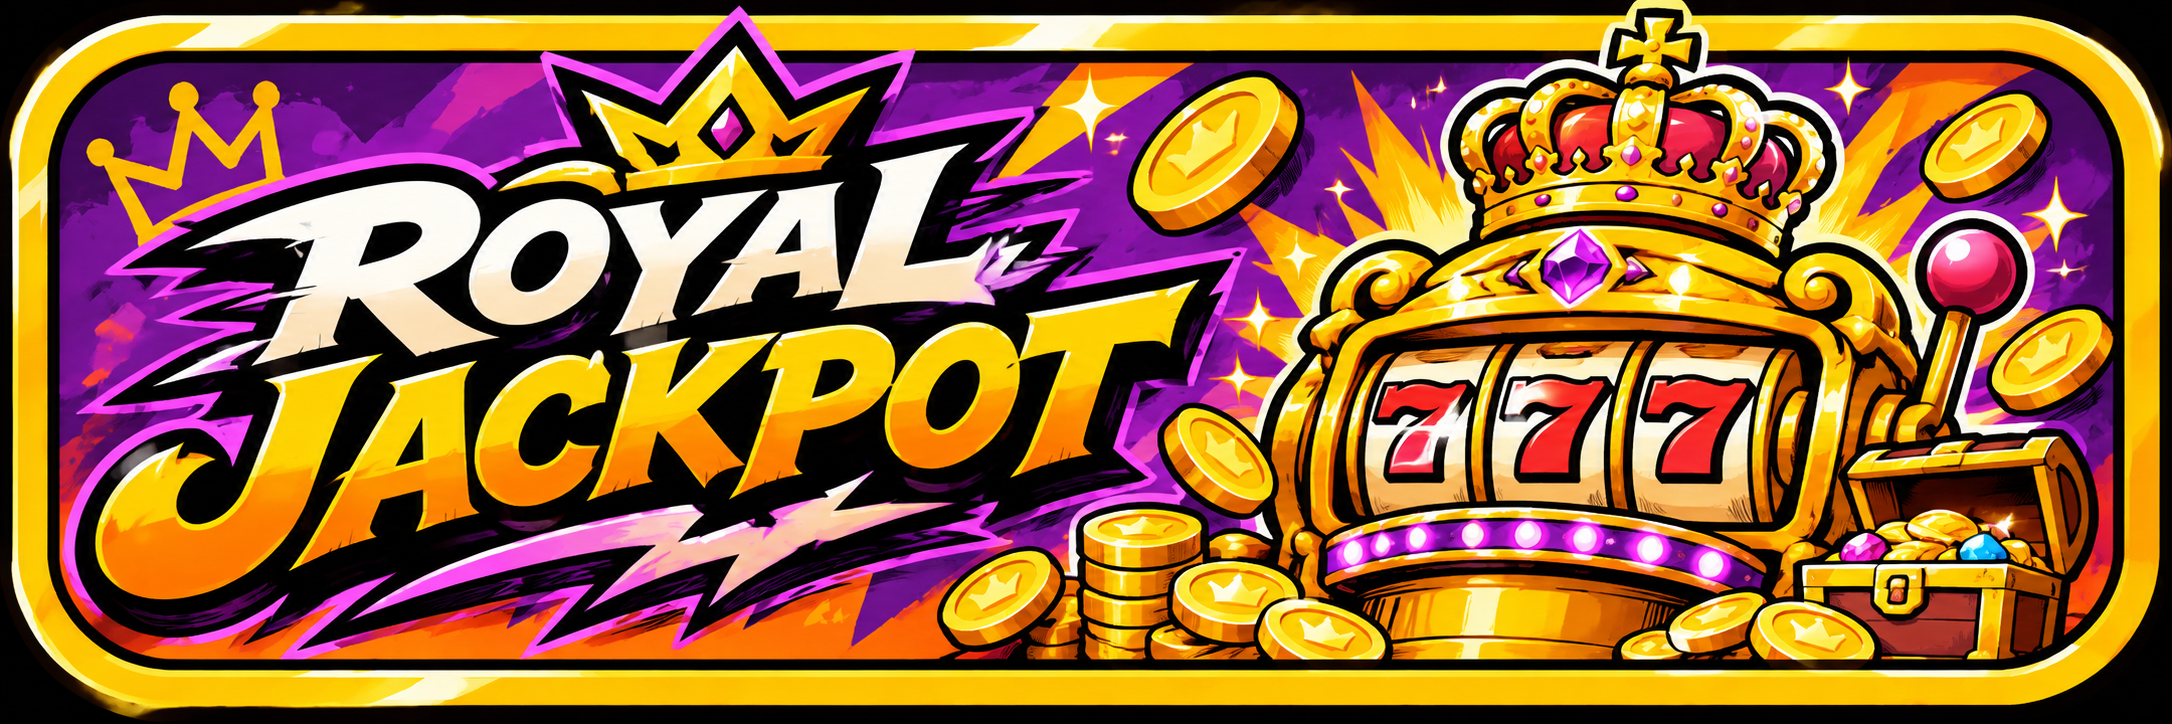
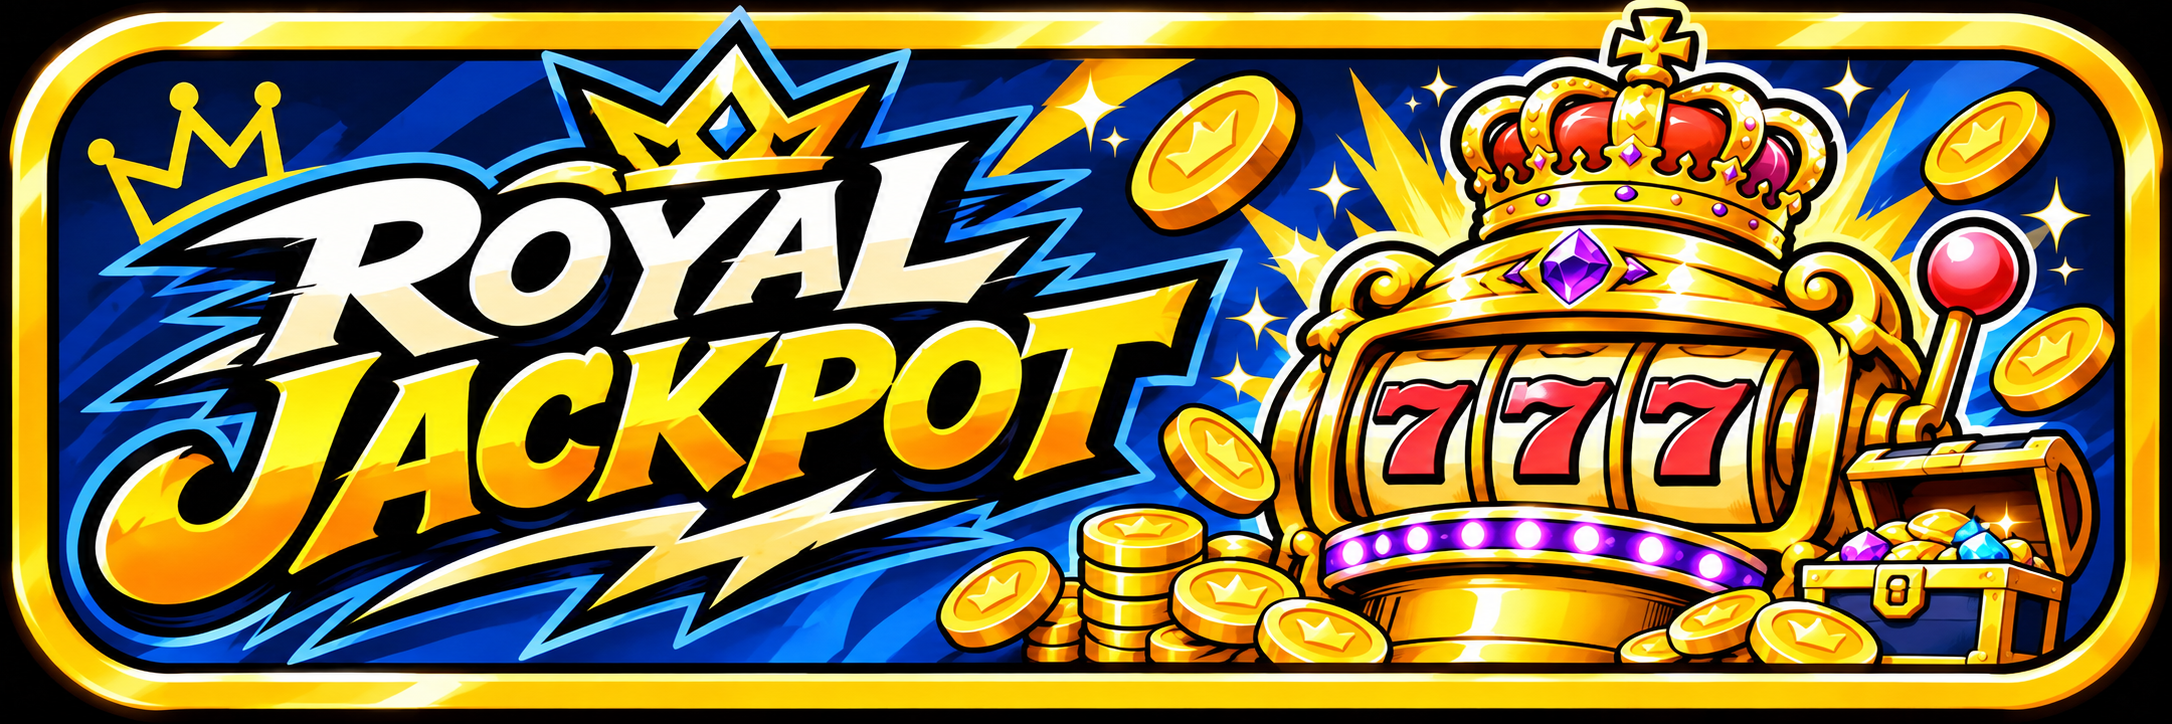
ROYAL JACKPOT: ミニゲーム選択の看板を青い絵に(前の紫はunused/slot/)
Claude-Session: https://claude.ai/code/session_01MXithgTc5umkveoyZShZHQ

diff --git a/src/scenes/MinigameSelectScene.ts b/src/scenes/MinigameSelectScene.ts
@@ -42,8 +42,8 @@ export const SELECT_CARD_ART: Record<string, { key: string; file: string; srcW: 
   slugger: { key: 'mg:card:slugger', file: 'assets/minigame/select_slugger.webp', srcW: 2172, frame: [29, 141, 2139, 672] },
   // 2026-11-09 企画者の 麻雀クエストの 看板(3ピンの 丸を 直した。元の 絵 design/mahjong/select_sign_original.png)
   mahjong: { key: 'mg:card:mahjong_v2', file: 'assets/minigame/select_mahjong_v2.webp', srcW: 2172, frame: [13, 15, 2157, 703] },
-  // 2026-11-12 企画者の ROYAL JACKPOT の 看板(元の 絵 design/slot/select_sign_original.png)
-  slot: { key: 'mg:card:slot', file: 'assets/minigame/select_slot.webp', srcW: 2172, frame: [13, 16, 2158, 704] },
+  // 2026-11-12 企画者の ROYAL JACKPOT の 看板(元の 絵 design/slot/select_sign_original.png)。紫 → 青に 変えた(前の 絵は unused/slot/)
+  slot: { key: 'mg:card:slot_v2', file: 'assets/minigame/select_slot_v2.webp', srcW: 2172, frame: [13, 15, 2158, 704] },
 };
 
 /** 看板の 絵が まだで、ロゴの 絵だけ ある ゲーム(？？？の 看板に ロゴを のせる)。2026-11-10 ROYAL JACKPOT */

diff --git a/docs/SLOT.md b/docs/SLOT.md
@@ -343,7 +343,7 @@
 - 届いた 絵（企画者 2026-11-12〜）：キョンK 5枚 全部（K-1〜K-3・K-当たり・K-ハズレ）・パンダY 5枚 全部（P1〜P3・P当たり・Pハズレ）・うさぎK 5枚 全部（U1〜U3・U当たり・Uハズレ）・カンガルーH 7枚 全部（R1・R2-1〜R2-3・R3・R当たり・Rハズレ）・ヒヨコJ 7枚 全部（G1・G2-1〜G2-3・G3・G当たり・Gハズレ）・チーターS 5枚 全部（C-1〜C3・C当たり・Cハズレ）。2026-11-12 6人 36枚 全部 そろった。結果の 絵は 約3.5秒 見せてから さいごの リール（2026-11-12。企画者 2.4 → 4 → 3.5秒）。下の 帯の 文字は 左下の 王冠ランプに かぶらない よう 少し 右へ。
 
 ## ミニゲームの 看板（2026-11-12 企画者）
-- 元の 絵 design/slot/select_sign_original.png（2172×724）→ public/assets/minigame/select_slot.webp。麻雀クエストと 同じ 入れ方（`SELECT_CARD_ART.slot`）。
+- 元の 絵 design/slot/select_sign_original.png（2172×724）→ public/assets/minigame/select_slot_v2.webp（2026-11-12 企画者「こっちに 変えて」で 青い 看板に。前の 紫は unused/slot/）。麻雀クエストと 同じ 入れ方（`SELECT_CARD_ART.slot`）。
 
 ## BONUS リーチの 見た目（2026-11-12 企画者「今の ままで いい」）
 - 王冠 2つの 短い BONUS リーチは 今の プログラムの 見た目（金の 光と 王冠）で 決定。1枚絵（B1〜B3）は 作らない。
